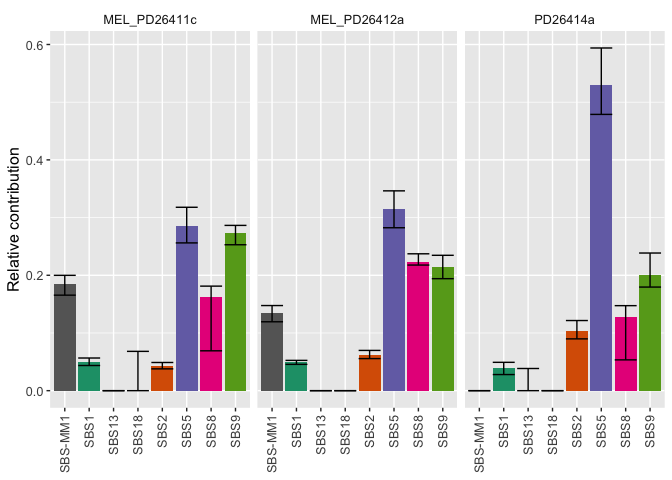
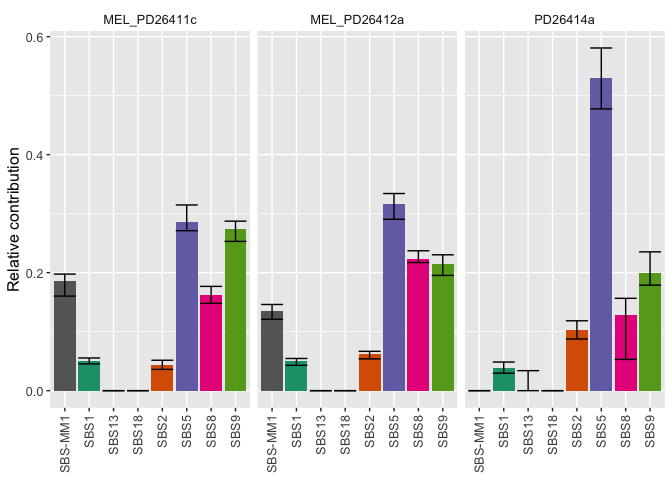
added seed

diff --git a/README.md b/README.md
@@ -125,6 +125,8 @@ head(mm_5_col_subset)
 ``` r
 # Bootstrapping large datasets with many iterations can significantly increase runtime. 
 
+set.seed(1)
+
 sig_out <- mm_fit_signatures(muts.input=mm_5_col_subset, 
                              sig.input=sig_ref,
                              input.format = "vcf",
